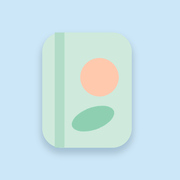
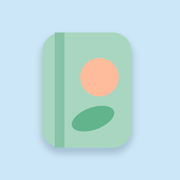
รุ่น 0.3.0: สมุดบนไอคอนสีเข้มขึ้น, ใส่ลูกน้ำคั่นหลักพันระหว่างพิมพ์, ปุ่ม 'บันทึกไฟล์สำรอง' และคำอธิบายไฟล์สำรองที่ชัดขึ้น
Claude-Session: https://claude.ai/code/session_01X7kHPiA8SbSXcTAk2KkUNo

Changed region(s): [[0.2222, 0.1667, 0.75, 0.8333]]

diff --git a/js/app.js b/js/app.js
@@ -1,11 +1,11 @@
-// หน้าจอของแอพเกษียณสุข — รุ่น 0.2.0 (ช่วง A ของขั้น Build + แก้ตามที่ซันลองบน iPhone 20 พ.ย.)
+// หน้าจอของแอพเกษียณสุข — รุ่น 0.3.0 (แก้ตามความเห็นซัน 21 พ.ย.) · ก่อนหน้า 0.2.0 (ช่วง A ของขั้น Build + แก้ตามที่ซันลองบน iPhone 20 พ.ย.)
 // หน้าที่มีในรุ่นนี้: เริ่มใช้, หน้าหลัก (+ กราฟ), เมนูบันทึก, บันทึกยอด/แก้, ยอดสิ้นปี, ประวัติ (ยอดเงิน + ยอดสิ้นปี),
 // ข้อมูลและสำรอง (สำรอง / กู้คืน / ข้อความสำคัญ) — สมุด 3 หน้า (F-13–F-15) และ F-17 ทำในช่วง B
 (function () {
 'use strict';
 const { BOX, compute, fmtMoney, fmtSigned, fmtPct, P, byDate, dayNum } = Calc;
-const { thaiDate, thaiDateShort, todayIso, moneyInput, MONTHS } = Forms;
-const VERSION = '0.2.0';
+const { thaiDate, thaiDateShort, todayIso, moneyInput, groupDigits, MONTHS } = Forms;
+const VERSION = '0.3.0';
 const app = document.getElementById('app');
 
 let state = null;          // ข้อมูลทั้งหมดในเครื่อง (null = ยังไม่เคยใช้)
@@ -136,7 +136,7 @@ function dateFields(id, iso, err, legend, hint) {
 }
 function moneyField(name, label, value, err, hint, opt) {
   return `<div class="field"><label for="f-${name}">${label}${opt ? ` <span class="opt">${opt}</span>` : ''}</label>
-    <input type="text" id="f-${name}" name="${name}" inputmode="decimal" autocomplete="off" value="${esc(value)}"${err ? ' aria-invalid="true" aria-describedby="e-' + name + '"' : ''}>
+    <input type="text" id="f-${name}" name="${name}" inputmode="decimal" autocomplete="off" data-money value="${esc(groupDigits(value))}"${err ? ' aria-invalid="true" aria-describedby="e-' + name + '"' : ''}>
     ${hint ? `<span class="hint">${hint}</span>` : ''}${err ? `<span class="err" id="e-${name}">${esc(err)}</span>` : ''}</div>`;
 }
 const readForm = form => Object.fromEntries(new FormData(form).entries());
@@ -157,9 +157,22 @@ function pageHead(title, back, backLabel, sub, notebook) {
   return `<header class="page-head">${back ? `<a class="back" href="${back}">${BACK_ICON}${backLabel}</a>` : ''}
     <div class="brand">${notebook ? LOGO(34, 36, false) : ''}<h1>${title}</h1></div>${sub ? `<span class="small muted">${sub}</span>` : ''}</header>`;
 }
+// ใส่ลูกน้ำระหว่างพิมพ์ โดยให้เคอร์เซอร์อยู่ตำแหน่งเดิม (นับตัวเลขก่อนเคอร์เซอร์)
+function bindMoneyInputs() {
+  app.querySelectorAll('input[data-money]').forEach(el => el.addEventListener('input', () => {
+    const before = el.value, pos = el.selectionStart == null ? before.length : el.selectionStart;
+    const keep = before.slice(0, pos).replace(/[^\d.]/g, '').length;
+    const out = groupDigits(before);
+    if (out === before) return;
+    el.value = out;
+    let n = 0, p = 0; while (p < out.length && n < keep) { if (/[\d.]/.test(out[p])) n++; p++; }
+    try { el.setSelectionRange(p, p); } catch (e) { /* บางเครื่องไม่รองรับ */ }
+  }));
+}
 function view(html, tab) {
   closeSheet();
   app.innerHTML = html + (tab ? tabbar(tab) : '');
+  bindMoneyInputs();
   app.classList.toggle('has-nav', !!tab);
   document.body.classList.toggle('has-nav', !!tab);
   window.scrollTo(0, 0);
@@ -551,7 +564,7 @@ function renderData() {
     ${has ? `<section class="card">
       <h2 class="card-title">สำรองข้อมูล</h2>
       <p class="small muted" style="margin:0">${m.lastBackupAt ? `สำรองล่าสุด ${thaiDate(m.lastBackupAt.slice(0, 10))}` : 'ยังไม่เคยสำรอง'}</p>
-      <p class="small" style="margin:0">ไฟล์เดียวครบทุกปี เก็บไว้ในที่ที่ไม่หายเมื่อเปลี่ยนเครื่อง เช่น iCloud Drive, Google Drive หรือส่งเข้า LINE ของตัวเอง</p>
+      <p class="small" style="margin:0">กดแต่ละครั้งได้ไฟล์ใหม่ที่มีข้อมูลครบทุกปี เก็บไว้ในที่ที่ไม่หายเมื่อเปลี่ยนเครื่อง เช่น iCloud Drive หรือ Google Drive</p>
       <button type="button" class="btn btn-primary" id="do-backup">สำรองข้อมูล</button>
     </section>` : ''}
     <section class="card">
@@ -599,10 +612,10 @@ function backupFlow() {
         ? '<li>ถ้าเห็นหน้ารูปไฟล์พื้นดำ แตะ <b>More…</b> (หรือปุ่มแชร์)</li><li>แตะ <b>บันทึกไปยังไฟล์</b> (Save to Files) แล้วเลือกที่เก็บ</li>'
         : '<li>ไฟล์จะถูกบันทึกไว้ในโฟลเดอร์ดาวน์โหลด</li><li>ย้ายไฟล์ไปเก็บในที่ที่ไม่หายเมื่อเปลี่ยนเครื่อง</li>');
   openSheet(`<h2>สำรองข้อมูล</h2>
-    <p style="margin:0">แอพจะสร้างไฟล์สำรองไฟล์เดียว ครบทุกปี ชื่อ <span class="num">${esc(backupFileName())}</span></p>
+    <p style="margin:0">แอพจะสร้างไฟล์ใหม่ชื่อ <span class="num">${esc(backupFileName())}</span> — ในไฟล์มีข้อมูลทุกรายการ ทุกปี</p>
     <div class="steps-box"><ol>${steps}</ol></div>
-    <p class="small muted" style="margin:0">เก็บไว้ในที่ที่ไม่หายเมื่อเปลี่ยนเครื่อง · ไฟล์นี้มีตัวเลขพอร์ตของคุณ อย่าส่งให้คนอื่น</p>
-    <div class="btn-row"><button type="button" class="btn btn-primary" id="bk-go">ไปต่อ</button><button type="button" class="btn btn-soft" data-close>ยกเลิก</button></div>`, sh => {
+    <p class="small muted" style="margin:0">กดสำรองแต่ละครั้งได้ไฟล์ใหม่ เก็บไฟล์ล่าสุดไว้ก็พอ (ไฟล์เก่าลบได้) · ไฟล์นี้มีตัวเลขพอร์ตของคุณ อย่าส่งให้คนอื่น</p>
+    <div class="btn-row"><button type="button" class="btn btn-primary" id="bk-go">บันทึกไฟล์สำรอง</button><button type="button" class="btn btn-soft" data-close>ยกเลิก</button></div>`, sh => {
     sh.querySelector('#bk-go').addEventListener('click', async () => {
       if (share) {
         try { await navigator.share({ files: [backupFile()] }); closeSheet(); toast('สำรองแล้ว'); markBackedUp(); }

diff --git a/js/forms.js b/js/forms.js
@@ -26,8 +26,19 @@ function parseMoney(text) {
   if (whole.length > 12) return { ok: false, why: 'ตัวเลขยาวเกินไป' };
   return { ok: true, value: Number(whole) * 100 + Number((frac + '00').slice(0, 2)) };
 }
-// สตางค์ → ข้อความในช่องกรอก (ไม่มีคอมมา เพื่อแก้ง่าย)
+// สตางค์ → ข้อความในช่องกรอก (ไม่มีคอมมา — หน้าจอใส่คอมมาให้ด้วย groupDigits)
 const moneyInput = s => (s == null ? '' : (Math.floor(s / 100) + (s % 100 ? '.' + pad(s % 100) : '')));
+
+// ใส่ลูกน้ำคั่นหลักพันระหว่างพิมพ์ (0.3.0): '1234567.5' → '1,234,567.5'
+// เก็บเฉพาะตัวเลขกับจุดทศนิยมจุดแรก (ตัวอักษร/เครื่องหมายลบพิมพ์ไม่ติด)
+function groupDigits(text) {
+  let raw = String(text == null ? '' : text).replace(/[^\d.]/g, '');
+  const i = raw.indexOf('.');
+  if (i >= 0) raw = raw.slice(0, i + 1) + raw.slice(i + 1).replace(/\./g, '');
+  const [w, f] = raw.split('.');
+  const whole = w.replace(/^0+(?=\d)/, '').replace(/\B(?=(\d{3})+(?!\d))/g, ',');
+  return f !== undefined ? whole + '.' + f : whole;
+}
 
 // วัน / เดือน / ปี พ.ศ. → 'YYYY-MM-DD' (ค.ศ.)
 function checkDate(d, m, yBE, today) {
@@ -100,5 +111,5 @@ function checkYearEnd(state, f, { editingYear = null, today }) {
            allZero: ye.v === 0 && ye.pm === 0 && ye.pg === 0 };      // ถามยืนยันสมาชิกใหม่ 1 ครั้ง
 }
 
-return { MONTHS, thaiDate, thaiDateShort, todayIso, parseMoney, moneyInput, checkDate, checkBalance, principalQuestion, checkYearEnd };
+return { MONTHS, thaiDate, thaiDateShort, todayIso, parseMoney, moneyInput, groupDigits, checkDate, checkBalance, principalQuestion, checkYearEnd };
 });

diff --git a/tests/test-forms.js b/tests/test-forms.js
@@ -16,6 +16,12 @@ eq('F01', 'ว่าง / ตัวอักษร / ติดลบ / ทศน
    ['กรุณากรอกจำนวนเงิน', 'กรอกเป็นตัวเลขเท่านั้น', 'จำนวนเงินติดลบไม่ได้', 'ใส่สตางค์ได้ไม่เกิน 2 ตำแหน่ง']);
 eq('F01', 'แปลงกลับเป็นช่องกรอก', [F.moneyInput(1234567890), F.moneyInput(1234567805), F.moneyInput(null)], ['12345678.90', '12345678.05', '']);
 
+// F06 ใส่ลูกน้ำระหว่างพิมพ์ (0.3.0)
+eq('F06', 'คั่นหลักพัน / ทศนิยม / ศูนย์นำหน้า / ตัวอักษรพิมพ์ไม่ติด / จุดซ้ำ',
+   ['943310', '1234567.5', '007', 'a1b2c3', '1.2.3', '', '0.50'].map(F.groupDigits),
+   ['943,310', '1,234,567.5', '7', '123', '1.23', '', '0.50']);
+eq('F06', 'ข้อความที่มีลูกน้ำแล้วยังอ่านเป็นเงินได้ตรง', F.parseMoney(F.groupDigits('12345678.90')).value, 1234567890);
+
 // F02 วันที่
 eq('F02', 'แสดงวันที่ไทย', [F.thaiDate('2026-10-15'), F.thaiDateShort('2025-12-31')], ['15 ต.ค. 2569', '31 ธ.ค. 68']);
 eq('F02', '30 ก.พ. ไม่มีจริง / วันในอนาคต (AC-06)', [F.checkDate('30', '2', '2569', TODAY).why, F.checkDate('21', '11', '2569', TODAY).why],

diff --git a/index.html b/index.html
@@ -15,14 +15,14 @@
 <link rel="icon" href="icons/icon.svg" type="image/svg+xml">
 <link rel="apple-touch-icon" href="icons/apple-touch-icon.png">
 <link rel="preload" href="fonts/ibm-plex-sans-thai-looped-thai-400-normal.woff2" as="font" type="font/woff2" crossorigin>
-<link rel="stylesheet" href="css/app.css?v=0.2.0">
+<link rel="stylesheet" href="css/app.css?v=0.3.0">
 </head>
 <body>
 <div id="app" aria-live="polite"><p style="padding:24px">กำลังเปิดสมุด…</p></div>
 <noscript><p style="padding:24px">แอพนี้ต้องเปิด JavaScript ในเบราว์เซอร์</p></noscript>
-<script src="js/calc.js?v=0.2.0"></script>
-<script src="js/store.js?v=0.2.0"></script>
-<script src="js/forms.js?v=0.2.0"></script>
-<script src="js/app.js?v=0.2.0"></script>
+<script src="js/calc.js?v=0.3.0"></script>
+<script src="js/store.js?v=0.3.0"></script>
+<script src="js/forms.js?v=0.3.0"></script>
+<script src="js/app.js?v=0.3.0"></script>
 </body>
 </html>

diff --git a/README.md b/README.md
@@ -6,7 +6,7 @@
 - ข้อมูลอยู่ในเบราว์เซอร์ของเครื่องผู้ใช้เท่านั้น ไม่มีบัญชี ไม่ส่งข้อมูลออกไปที่ใด
 - ตัวเลขทั้งหมดในโค้ด ชุดทดสอบ และไฟล์ทดสอบ เป็นตัวเลขสมมติ
 
-สถานะ: รุ่น 0.2.0 — รุ่นทดสอบ (ช่วง A ของขั้น Build + แก้ตามที่ลองบน iPhone)
+สถานะ: รุ่น 0.3.0 — รุ่นทดสอบ (ช่วง A ของขั้น Build + แก้ตามที่ลองบน iPhone)
 
 ## ไฟล์ในนี้ (อธิบายแบบง่าย)
 
